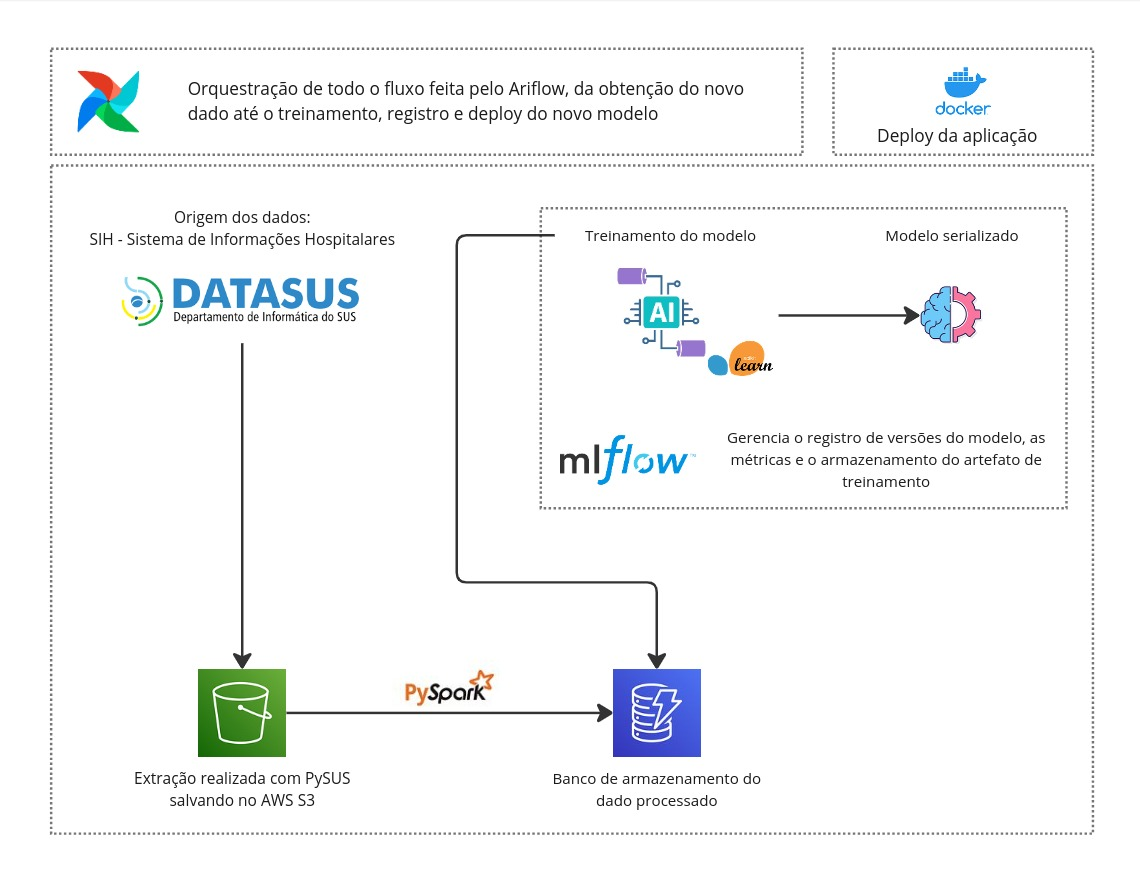
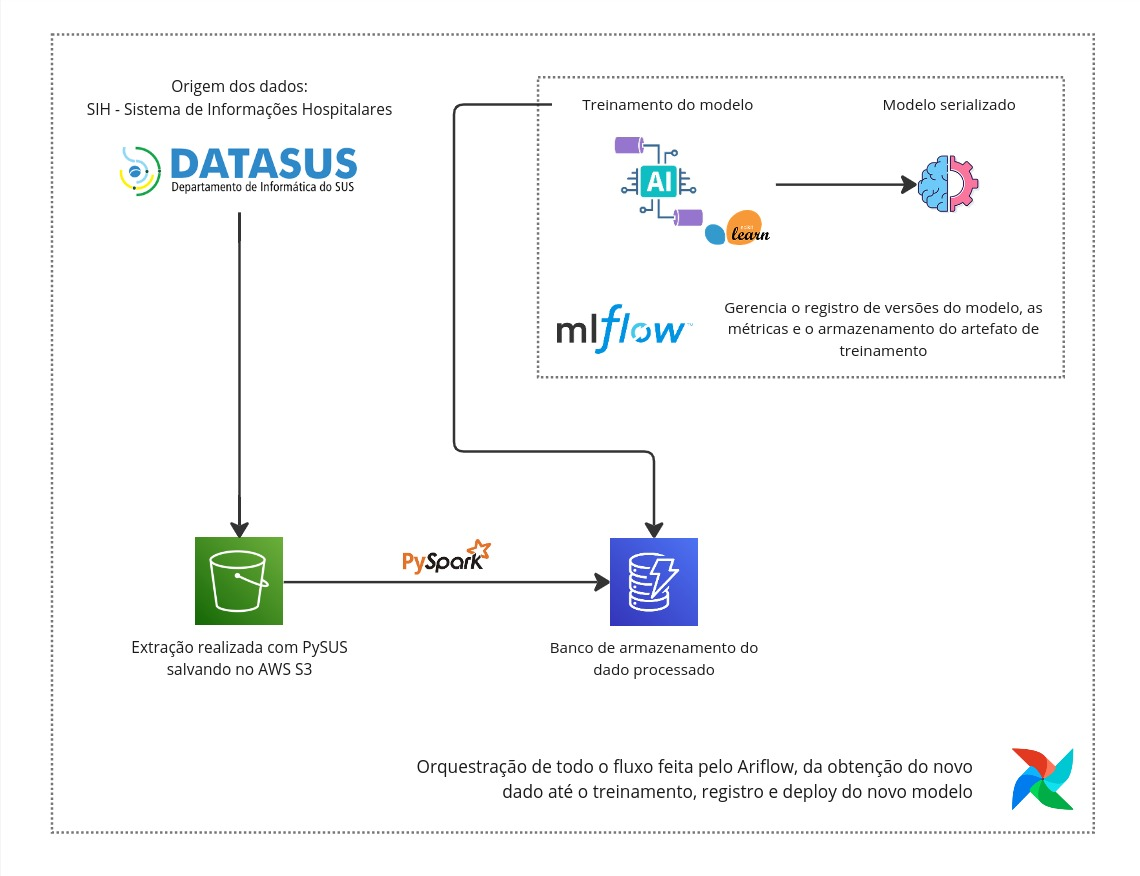
update docs

diff --git a/README.md b/README.md
@@ -29,6 +29,3 @@ Portanto, prever a probabilidade de um indivíduo se tornar um paciente de alto 
 2. Pipeline de Machine Learning:
      - O MLFlow foi utilizado para ser o arcabouço de treinamento, registro e deploy dos modelos que forem treinados. 
      - Todo o acompanhamento das métricas e parte do ciclo de MLOps serão visualizadas na interface do MLFlow.
-
-3. Deploy:
-     - Criação da imagem Docker utilizando o Render para disponibilizar o webserver tanto do Airflow quanto do MLFlow.
